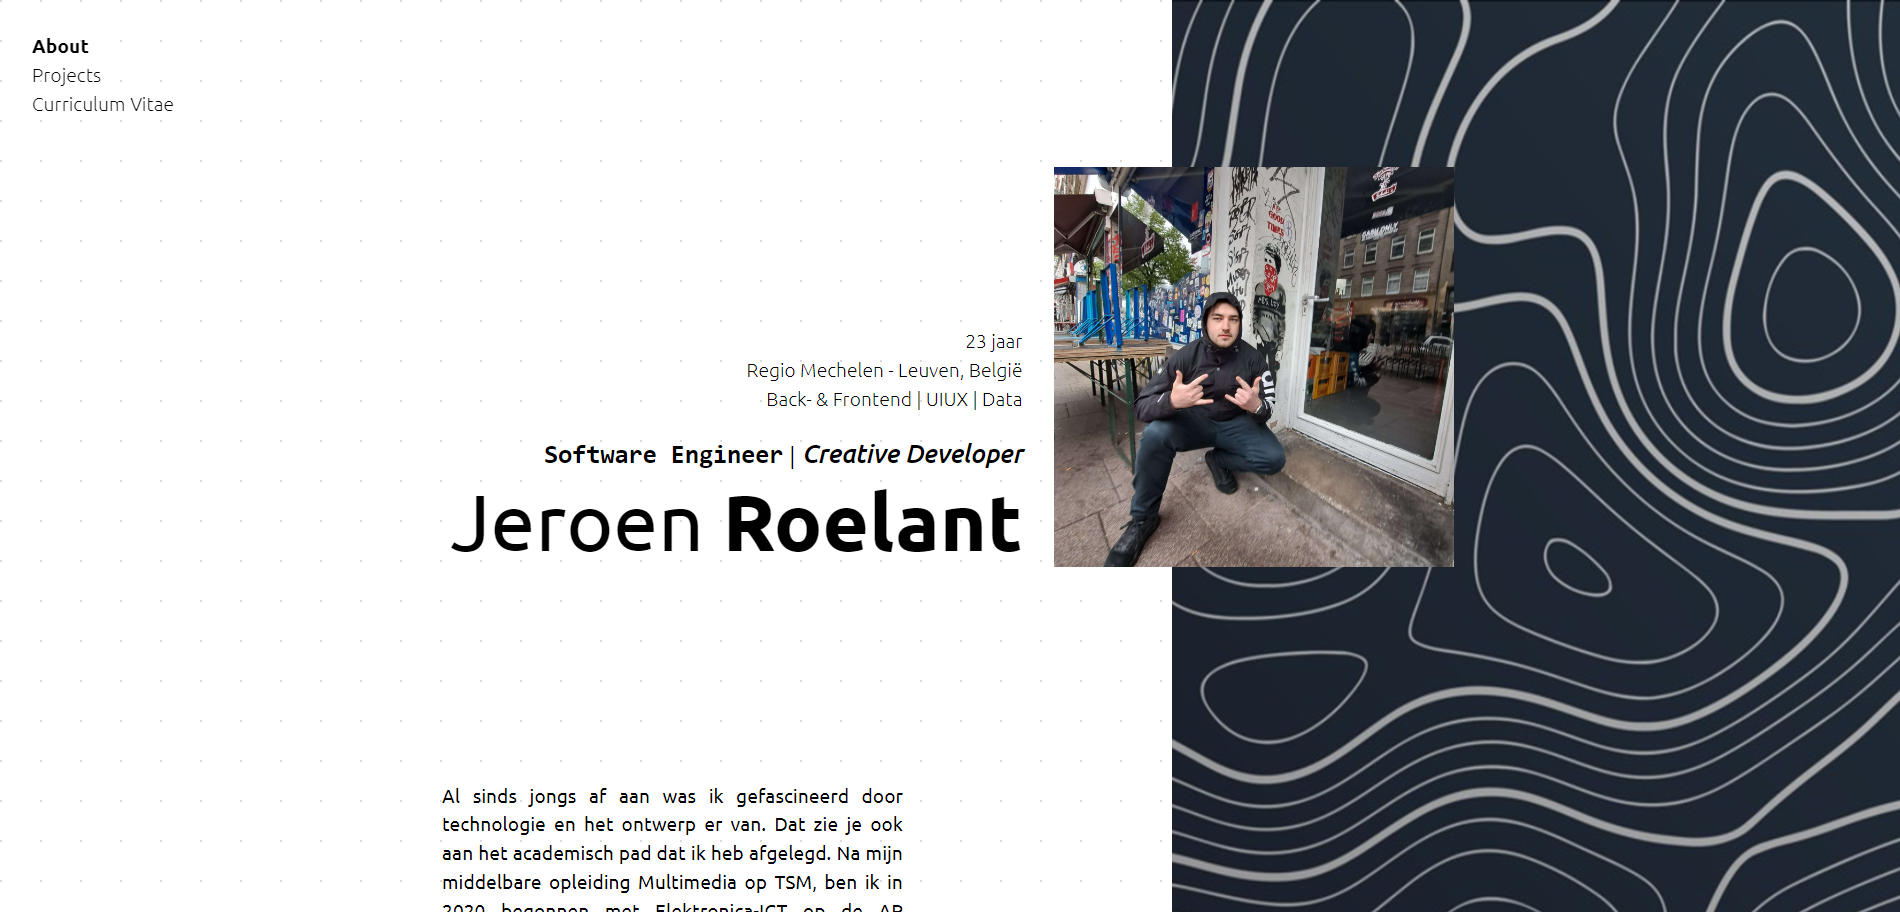
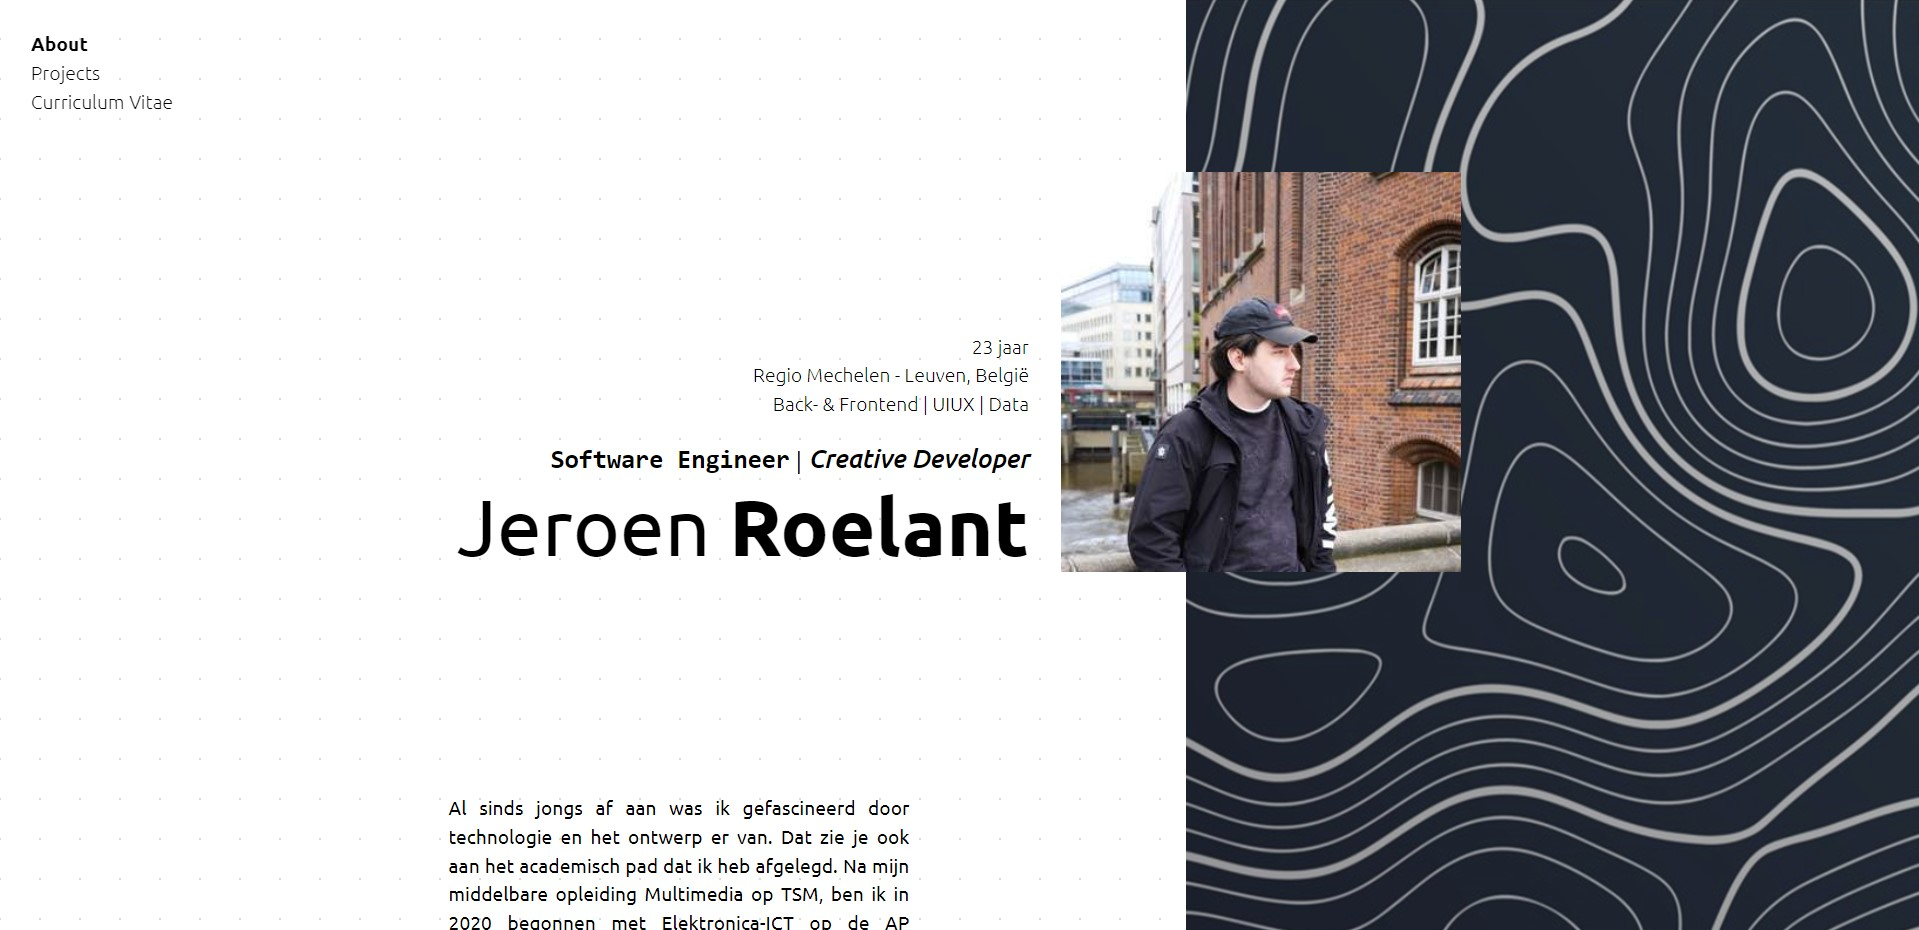
images

diff --git a/portfolioNew/index.html b/portfolioNew/index.html
@@ -59,9 +59,9 @@
                 <p class="ubuntu-regular">Daarna heb ik besloten om nog een jaartje extra te studeren bij Thomas More in de richting Digital Experience Design, in het verkorte traject. Hier heb ik mijn design-skills verfijnd en deze ook beter leren toepassen op code. Ik heb er enorm veel geleerd over esthetisch en bruikbaar UIUX design, deze toe te passen en het te laten valideren.</p>
                 <p class="ubuntu-regular">Tijdens mijn eerste hogere opleiding heb ik stage gelopen bij ChipSoft, waar ik zeer veel heb bijgeleerd door mee aan HiX te werken, en zelf een heel nieuwe feature ervoor te ontwikkelen. Dit was toen in een in-house .NET framework.</p>
                 <p class="ubuntu-regular">.NET is echter niet het enige framework waar ik vlot mee kan werken! Ik werk tegenwoordig graag met Node en TypeScript. In de backend voel ik me ook thuis bij Java en Python. In de frontend gebruik ik graag Angular en React. Vue is een skill die ik hier zeker nog wil bijleren.</p>
-                <p class="ubuntu-regular">Mijn texteditors naar keuze zijn VSCode met een heleboel extensies, of JetBrains IDE's voor specifiekere zaken. In de shell gebruik ik graag Nano, want wie weet er nu werkelijk hoe die moet werken met Vim? 😝</p>
+                <!-- <p class="ubuntu-regular">Mijn texteditors naar keuze zijn VSCode met een heleboel extensies, of JetBrains IDE's voor specifiekere zaken. In de shell gebruik ik graag Nano, want wie weet er nu werkelijk hoe die moet werken met Vim? 😝</p> -->
                 <p class="ubuntu-regular">Op mijn <a href="/cv?method=site">CV</a> vind je nog veel meer zaken.</p>
-                <p class="ubuntu-regular">Ik ben verder nog een enorm grote muzieknerd en kijk ook graag eens een film of serie. Reizen doe ik graag naar de bergen en bossen, waar ik het liefst lange wandelingen doe. 🌄</p>
+                <!-- <p class="ubuntu-regular">Ik ben verder nog een enorm grote muzieknerd en kijk ook graag eens een film of serie. Reizen doe ik graag naar de bergen en bossen, waar ik het liefst lange wandelingen doe. 🌄</p> -->
                 <!-- <iframe id="spotify-rec" style="border-radius:12px" src="" width="100%" height="152" frameBorder="0" allowfullscreen="" allow="autoplay; clipboard-write; encrypted-media; fullscreen; picture-in-picture" loading="lazy"></iframe> -->
             </div>
             <img src="./images/About/collage.png" class="collage" alt="">
@@ -76,9 +76,7 @@
                     <li><a href="https://www.linkedin.com/in/jeroen-roelant/">LinkedIn</a></li>
                     <li><a href="https://github.com/jeroen-roelant">GitHub</a></li>
                     <li><a href="https://leetcode.com/jeroenr01">LeetCode</a></li>
-                    <li><a href="https://www.instagram.com/jerre.01/">Instagram</a></li>
                     <li><a href="/cv?method=site">Curriculum Vitae</a></li>
-                    <li><a href="/cv?method=site">Curriculum Vitae (EN)</a></li>
                 </ul>
             </div>
 

diff --git a/portfolioNew/project.html b/portfolioNew/project.html
@@ -51,9 +51,7 @@
                     <li><a href="https://www.linkedin.com/in/jeroen-roelant/">LinkedIn</a></li>
                     <li><a href="https://github.com/jeroen-roelant">GitHub</a></li>
                     <li><a href="https://leetcode.com/jeroenr01">LeetCode</a></li>
-                    <li><a href="https://www.instagram.com/jerre.01/">Instagram</a></li>
                     <li><a href="/cv?method=site">Curriculum Vitae</a></li>
-                    <li><a href="/cv?method=site">Curriculum Vitae (EN)</a></li>
                 </ul>
             </div>
 

diff --git a/portfolioNew/projects.html b/portfolioNew/projects.html
@@ -44,9 +44,7 @@
                     <li><a href="https://www.linkedin.com/in/jeroen-roelant/">LinkedIn</a></li>
                     <li><a href="https://github.com/jeroen-roelant">GitHub</a></li>
                     <li><a href="https://leetcode.com/jeroenr01">LeetCode</a></li>
-                    <li><a href="https://www.instagram.com/jerre.01/">Instagram</a></li>
                     <li><a href="/cv?method=site">Curriculum Vitae</a></li>
-                    <li><a href="/cv?method=site">Curriculum Vitae (EN)</a></li>
                 </ul>
             </div>
 

diff --git a/app.js b/app.js
@@ -109,15 +109,15 @@ connect()
 })
     .use(
         // Serve the portfolio
-        serveStatic(__dirname + '/portfolio')
+        serveStatic(__dirname + '/portfolioNew')
         // serveStatic(__dirname + '/wordleClone')
 
     )
     .use('/wordle', 
         serveStatic(__dirname + '/wordleClone')
     )
-    .use('/preview', 
-        serveStatic(__dirname + '/portfolioNew')
+    .use('/legacy', 
+        serveStatic(__dirname + '/portfolio')
     )
     .use('/cv', async (req, res) => {
         var query = qs.parse(req._parsedUrl.query);

diff --git a/portfolioNew/style.css b/portfolioNew/style.css
@@ -233,7 +233,7 @@ header{
 }
 
 div.profilePic{
-    background-image: url("./images/About/1.jpg");
+    background-image: url("./images/About/pfp.jpg");
     background-size: cover;
     width: 400px;
     height: 400px;
@@ -605,6 +605,14 @@ footer .footer-content div ul{
         justify-items: stretch;
         align-items: stretch;
         margin: 8em 0 0 10vw;
+    }
+
+    .mini_card .data{
+        font-size: 1em;
+    }
+
+    .mini_card .info{
+        margin: 0 0 0 0.5em;
     }
 
     /* #endregion */

diff --git a/portfolioNew/script.js b/portfolioNew/script.js
@@ -54,7 +54,7 @@ function createMiniCard(id, imageSrc, cardDescription, cardTitle) {
                 <img src="${imageSrc}" alt="placeholder">
             </div>
             <div class="info">
-                <p class="data ubuntu-medium-italic">${cardDescription}</p>
+                <p class="data ubuntu-regular-italic">${cardDescription}</p>
                 <h2 class="ubuntu-bold">${cardTitle}</h2>
             </div>
         </div>
